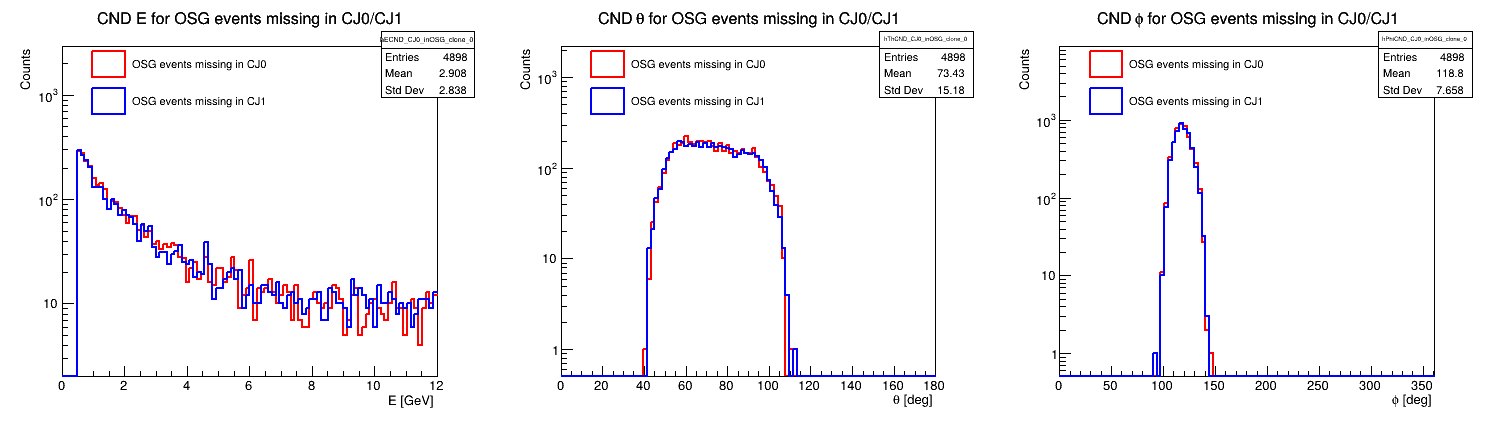
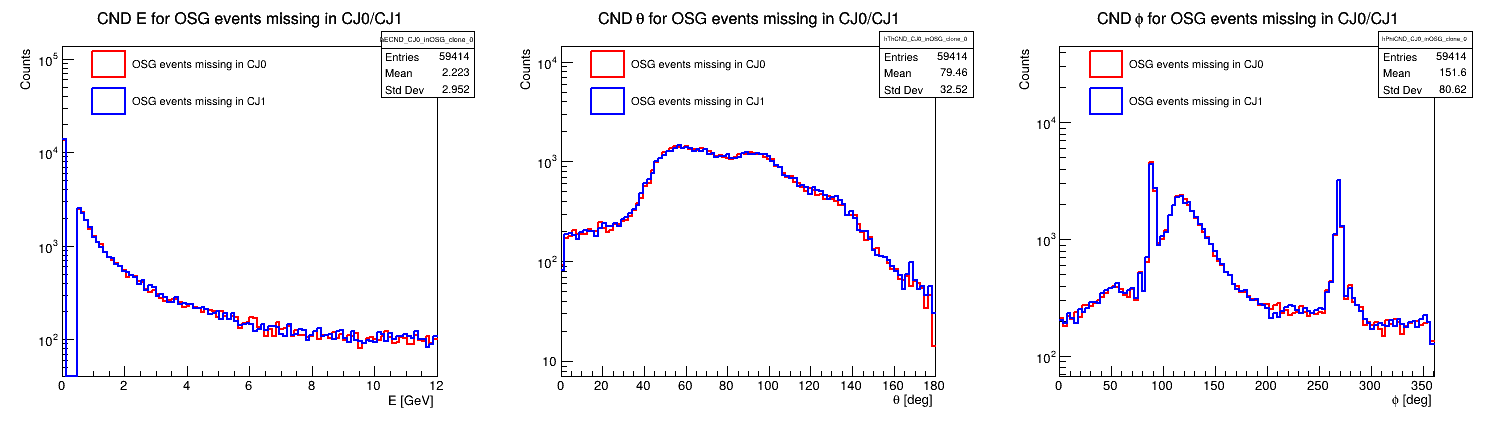
⚗ Removing some cuts, just leaving cuts on pid, non-zero p/theta/phi

diff --git a/compare_cnd_versions.C b/compare_cnd_versions.C
@@ -185,8 +185,8 @@ int pick_cnd_row_angle_then_energy(
             continue;
 
         float ang = pREC.Angle(dir) * TMath::RadToDeg();
-        if (ang > maxCndAngDeg)
-            continue;
+        // if (ang > maxCndAngDeg)
+        //     continue;
 
         float E = SCINT.getFloat("energy", sc);
 
@@ -511,8 +511,8 @@ void process_chain_allow_keys(
 
                     if (mcidx < 0)
                         continue; // ignore unmatched rows
-                    if (quality < 0.5)
-                        continue;
+                    // if (quality < 0.5)
+                    //     continue;
 
                     // Keep best score if multiple rows map to same pindex
                     auto itq = p2q.find(pidx);
@@ -581,8 +581,8 @@ void process_chain_allow_keys(
                                      MCPT.getFloat("pz", mcidx));
                         match.angleDeg = pREC.Angle(pMC) * TMath::RadToDeg();
 
-                        if (maxAngleDeg > 0 && match.angleDeg > maxAngleDeg)
-                            match.mcIndex = -1;
+                        // if (maxAngleDeg > 0 && match.angleDeg > maxAngleDeg)
+                        //     match.mcIndex = -1;
                     }
                 }
 
@@ -590,8 +590,8 @@ void process_chain_allow_keys(
                 // {
                 //     match = match_neutron_rec_to_mc(pREC, MCPT, /*maxAngleDeg=*/maxAngleDeg);
                 // }
-                if (match.mcIndex < 0)
-                    continue; // no good MC match
+                // if (match.mcIndex < 0)
+                //     continue; // no good MC match
 
                 // MatchResult match = match_neutron_rec_to_mc(pREC, MCPT, /*maxAngleDeg=*/maxAngleDeg);
                 // if (match.mcIndex < 0)
@@ -630,11 +630,11 @@ void process_chain_allow_keys(
                     fallbackToBestE,
                     bestScRow[ip]);
 
-                if (scBest < 0)
-                    continue; // no good CND cluster for this neutron
+                // if (scBest < 0)
+                //     continue; // no good CND cluster for this neutron
 
-                if (dThetaCut && !pass_gauss_cut(dth_rec_mc, *dThetaCut))
-                    continue;
+                // if (dThetaCut && !pass_gauss_cut(dth_rec_mc, *dThetaCut))
+                //     continue;
 
                 const int layerBest = SCINT.getInt("layer", scBest);
                 h.hCNDLayer->Fill(layerBest);
@@ -917,8 +917,8 @@ void process_chain(TChain *chain,
                     if (mcidx < 0)
                         continue; // ignore unmatched rows
 
-                    if (quality < 0.5)
-                        continue;
+                    // if (quality < 0.5)
+                    //     continue;
 
                     // Keep best score if multiple rows map to same pindex
                     auto itq = p2q.find(pidx);
@@ -988,8 +988,8 @@ void process_chain(TChain *chain,
                                      MCPT.getFloat("pz", mcidx));
                         match.angleDeg = pREC.Angle(pMC) * TMath::RadToDeg();
 
-                        if (maxAngleDeg > 0 && match.angleDeg > maxAngleDeg)
-                            match.mcIndex = -1;
+                        // if (maxAngleDeg > 0 && match.angleDeg > maxAngleDeg)
+                        //     match.mcIndex = -1;
                     }
                 }
 
@@ -997,8 +997,8 @@ void process_chain(TChain *chain,
                 // {
                 //     match = match_neutron_rec_to_mc(pREC, MCPT, /*maxAngleDeg=*/maxAngleDeg);
                 // }
-                if (match.mcIndex < 0)
-                    continue; // no good MC match
+                // if (match.mcIndex < 0)
+                //     continue; // no good MC match
 
                 const float p_rec = pREC.Mag();
                 const float th_rec = pREC.Theta() * TMath::RadToDeg();
@@ -1055,11 +1055,11 @@ void process_chain(TChain *chain,
                     fallbackToBestE,
                     bestScRow[ip]);
 
-                if (scBest < 0)
-                    continue; // no good CND cluster for this neutron
+                // if (scBest < 0)
+                //     continue; // no good CND cluster for this neutron
 
-                if (dThetaCut && !pass_gauss_cut(dth_rec_mc, *dThetaCut))
-                    continue;
+                // if (dThetaCut && !pass_gauss_cut(dth_rec_mc, *dThetaCut))
+                //     continue;
 
                 const int layerBest = SCINT.getInt("layer", scBest);
                 h.hCNDLayer->Fill(layerBest);
